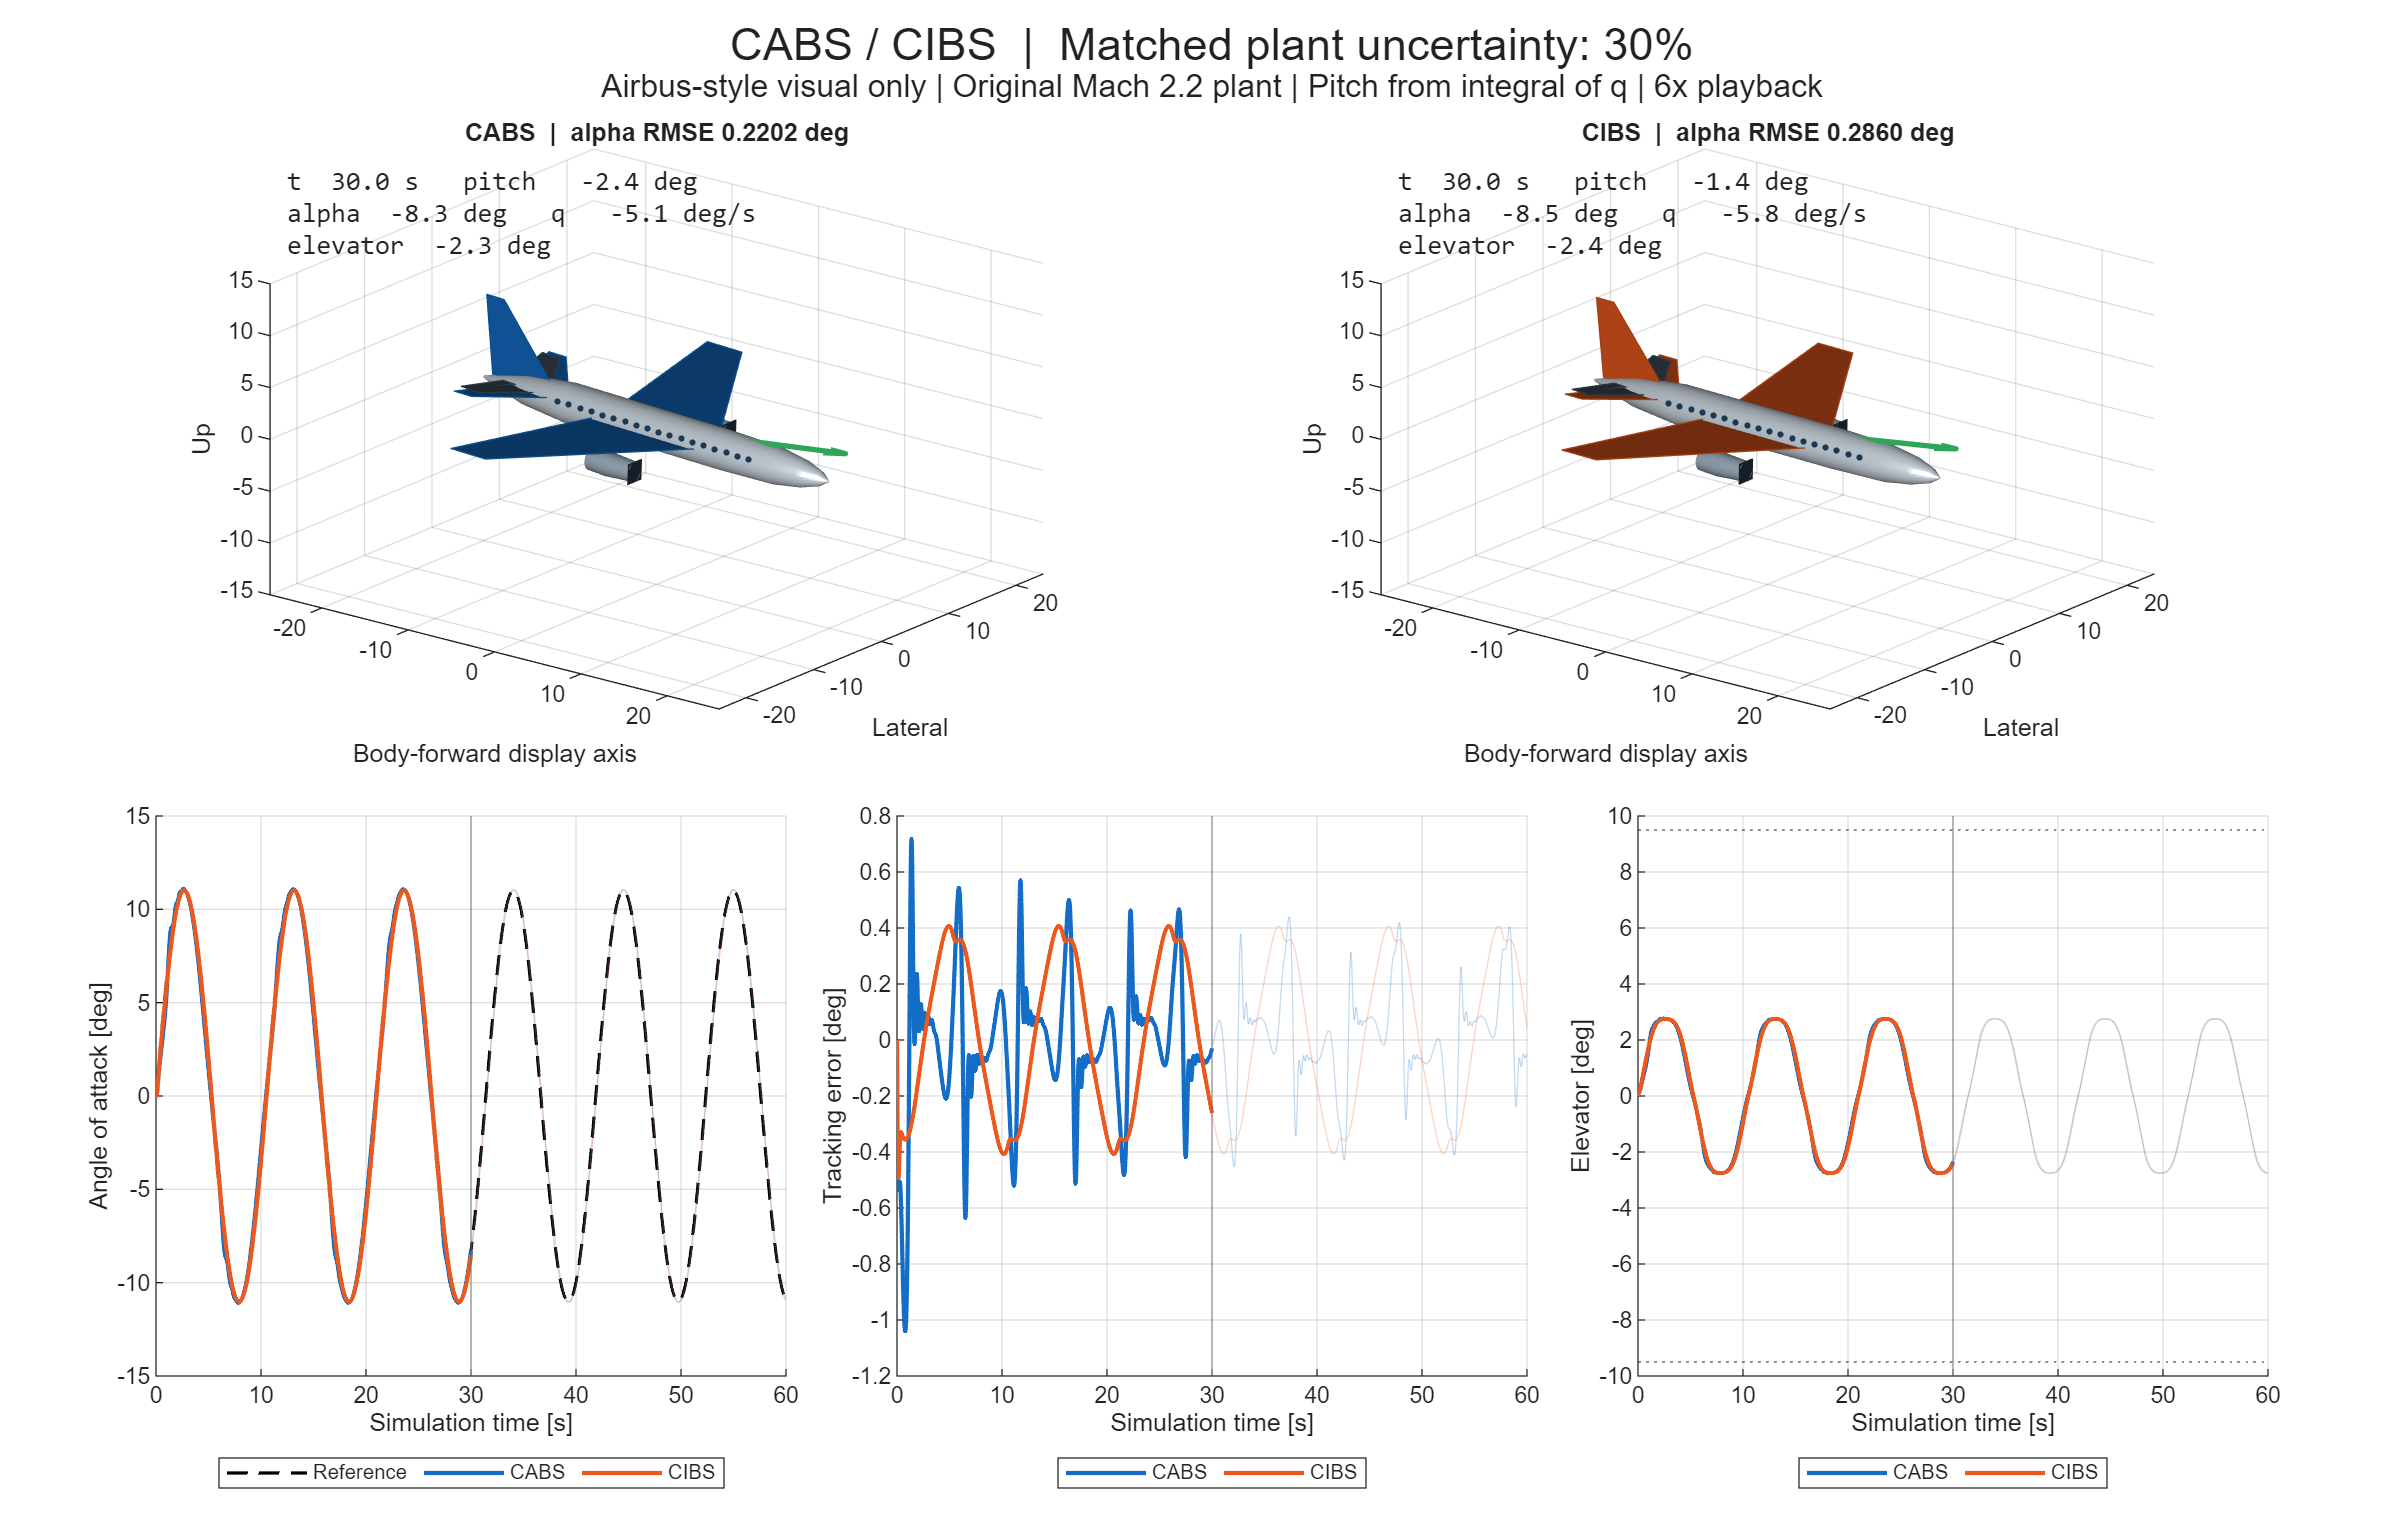
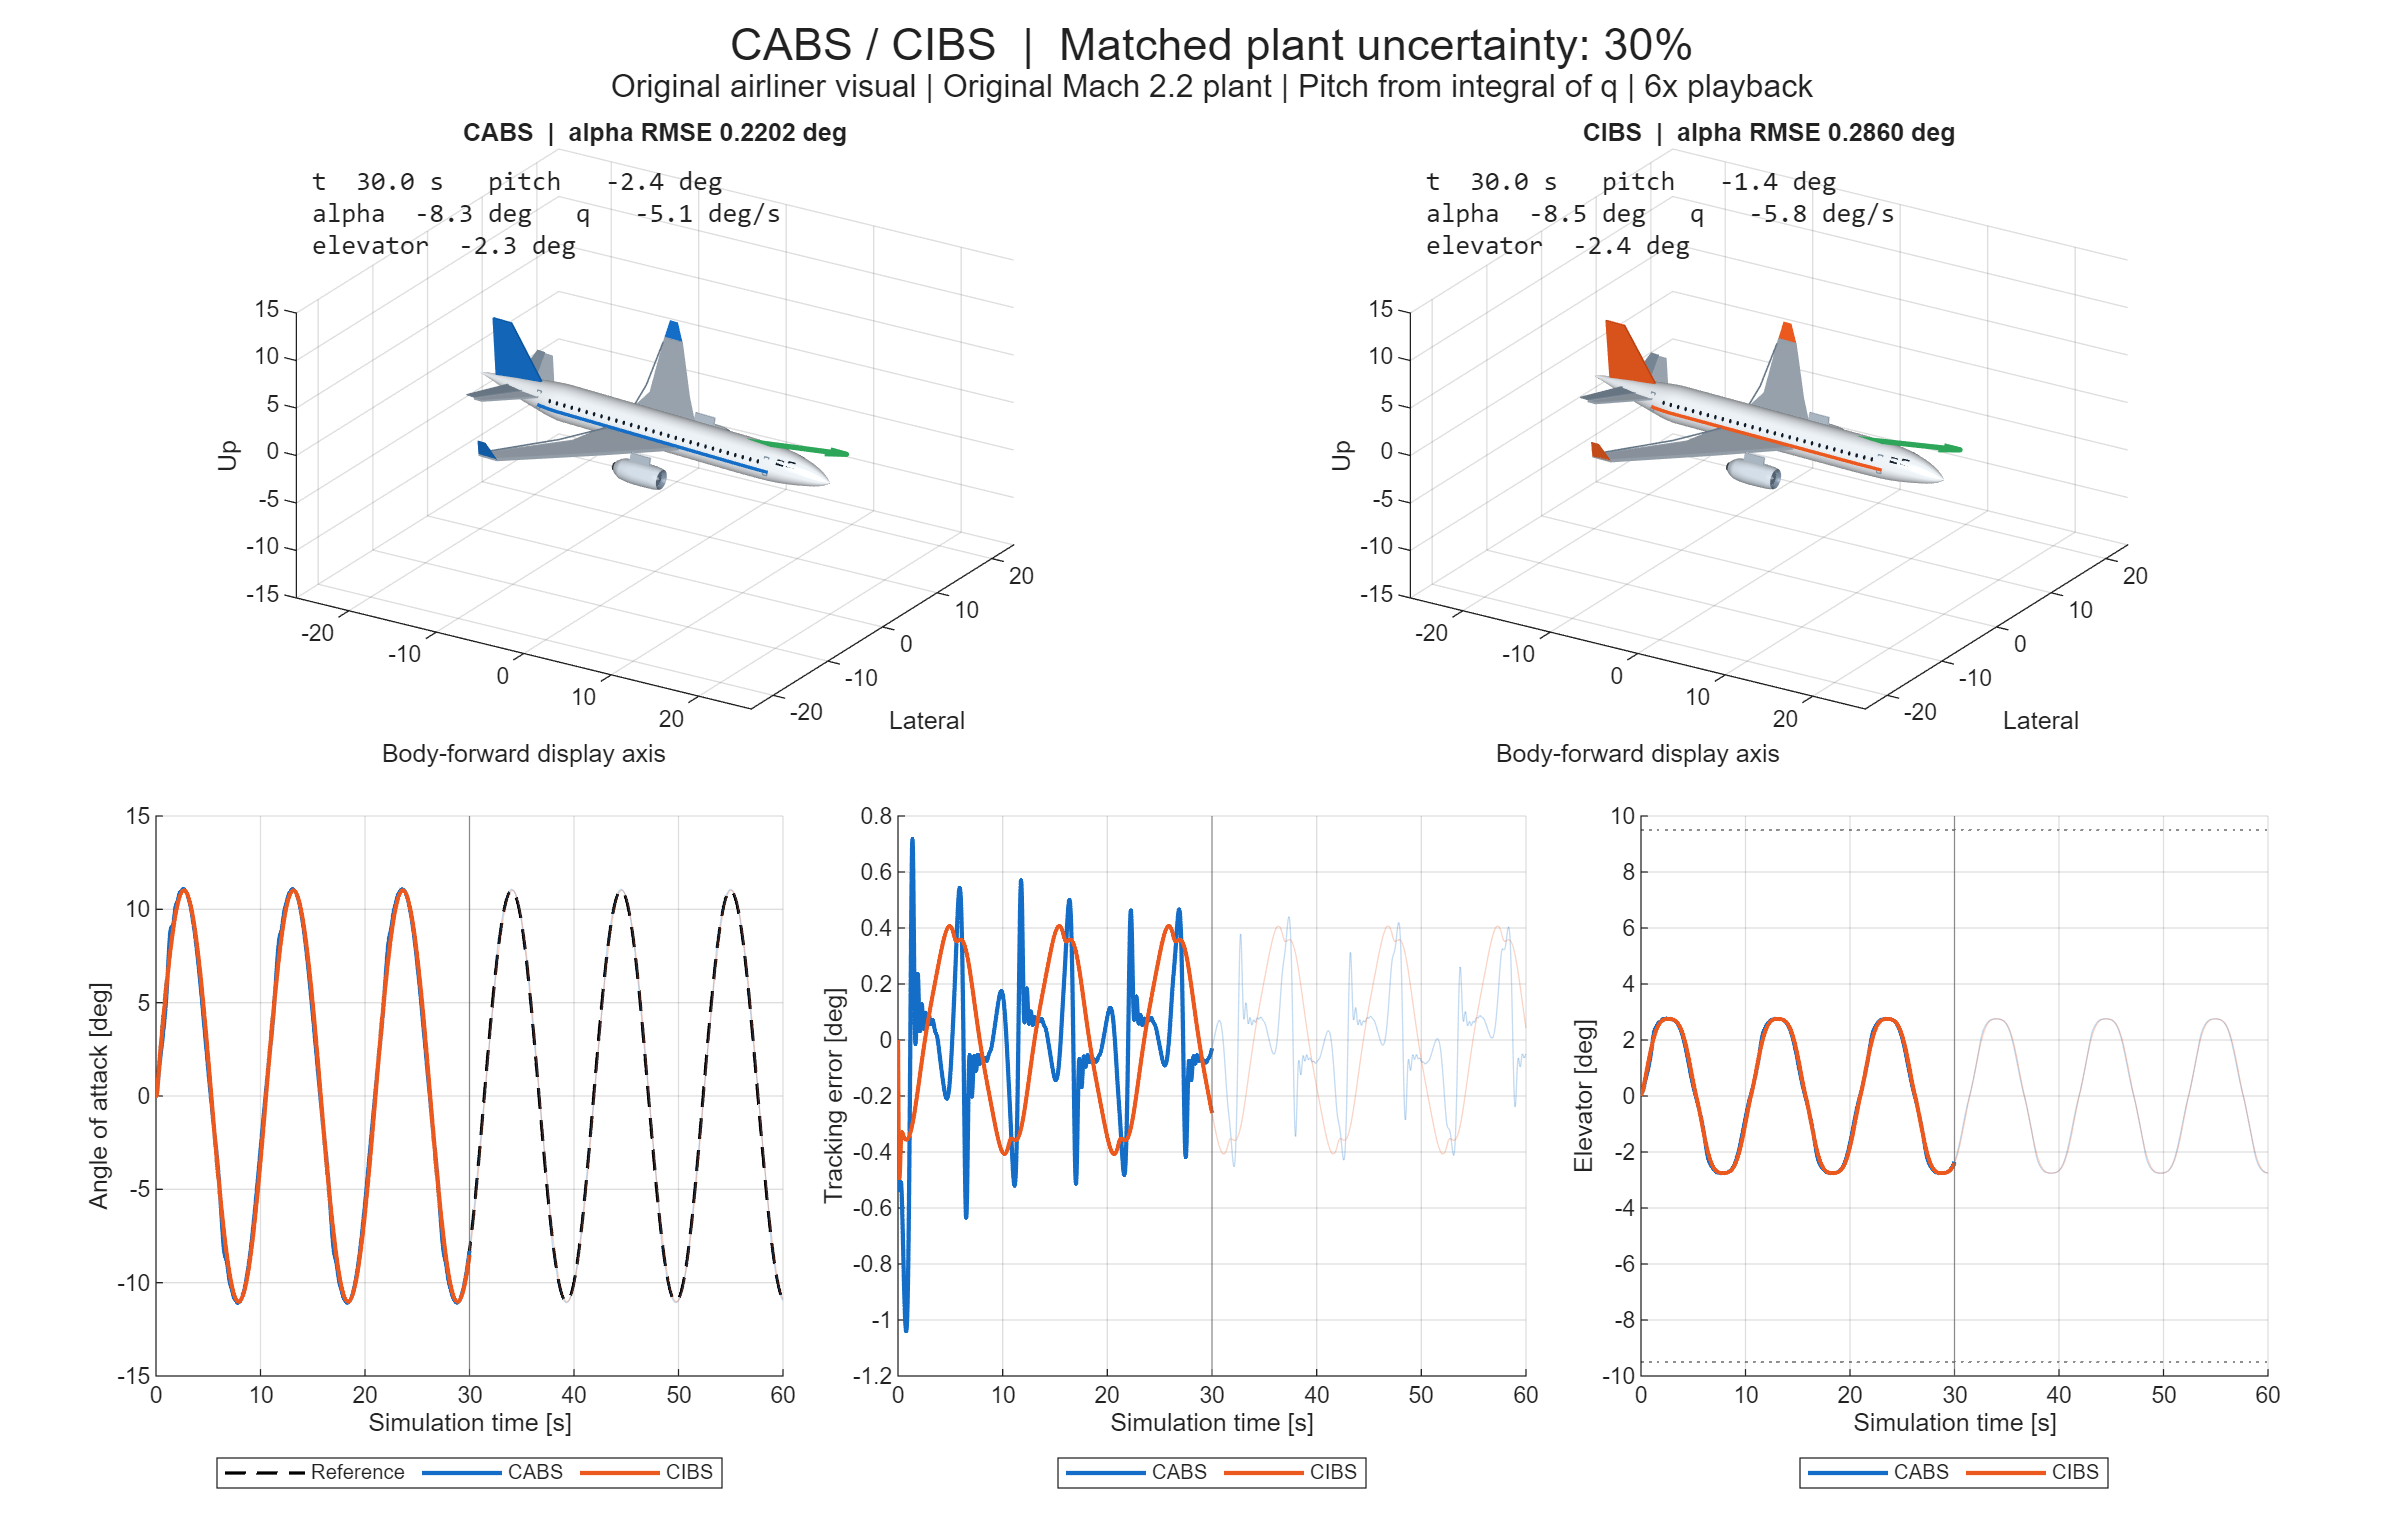
Polish original airliner geometry and refresh controller animation

diff --git a/airliner_mesh.m b/airliner_mesh.m
@@ -1,0 +1,101 @@
+function elevator = airliner_mesh(parent,color)
+%AIRLINER_MESH Original generic narrow-body airliner for MATLAB graphics.
+% No imported mesh, manufacturer drawings, logos, or airline liveries.
+% x forward, y lateral, z upward. Dimensions are visual proportions only.
+x = linspace(-20,20,150);
+stations = [-20 -19 -17 -14 -10 9 13 15 17 18.5 19.5 20];
+radii = [0.03 0.25 0.7 1.3 1.85 1.85 1.8 1.65 1.3 0.88 0.42 0.03];
+r = interp1(stations,radii,x,'pchip');
+zc = interp1(stations,[0.65 0.6 0.45 0.2 0 0 0 0 -0.06 -0.18 -0.3 -0.35],x,'pchip');
+shell(parent,x,r,zc,0,[0.93 0.95 0.97]);
+wingColor = [0.72 0.77 0.82]; dark = [0.055 0.10 0.15];
+for side = [-1 1]
+    % Tapered wings with thickness, sweep, dihedral, and small winglets.
+    foil(parent,[4 side*1.5 -0.45; -1 side*8 0; -7.5 side*17 0.9; ...
+        -9.6 side*17 0.9; -5 side*7 -0.1; -4.5 side*1.5 -0.45],0.17,wingColor);
+    foil(parent,[-7.5 side*17 0.9; -8.5 side*17.6 2.6; ...
+        -9.4 side*17.6 2.6; -9.6 side*17 0.9],0.05,color);
+    line([-4.2 -6.0 -9.1],side*[2 8 16],[-0.24 0.17 1.01], ...
+        'Parent',parent,'Color',[0.40 0.47 0.53],'LineWidth',0.6);
+    % Fixed tailplane; the separate rear section animates with the elevator.
+    foil(parent,[-12 side*0.8 0.5; -15.8 side*6.5 1.1; ...
+        -16.7 side*6.5 1.1; -14.4 side*0.8 0.5],0.10,wingColor);
+    % Engine pylon and rounded nacelle with a recessed fan and exhaust.
+    foil(parent,[3.2 side*5.9 -0.1; 1.0 side*5.9 -0.1; ...
+        0.7 side*5.9 -2.0; 3.0 side*5.9 -2.0],0.12,wingColor);
+    ex = linspace(-0.6,4.5,50);
+    er = interp1([-0.6 0.2 1.8 3.8 4.5],[0.65 1.05 1.18 1.12 1.0],ex,'pchip');
+    shell(parent,ex,er,-2.05*ones(size(ex)),side*5.9,[0.83 0.87 0.91]);
+    shell(parent,[4.5 4.35 4.05],[1 .89 .82],[-2.05 -2.05 -2.05],side*5.9,[0.48 0.55 0.62]);
+    disk(parent,4.02,side*5.9,-2.05,0.82,dark);
+    for blade = linspace(0,2*pi,19)
+        line([4.06 4.06],side*5.9+[0.22*cos(blade) .78*cos(blade+0.15)], ...
+            -2.05+[0.22*sin(blade) .78*sin(blade+0.15)], ...
+            'Parent',parent,'Color',[0.32 0.38 0.44],'LineWidth',0.65);
+    end
+    shell(parent,[4.07 4.30],[0.23 0.02],[-2.05 -2.05],side*5.9,[0.56 0.61 0.66]);
+    shell(parent,[-0.9 -0.55],[0.4 .62],[-2.05 -2.05],side*5.9,[0.27 0.31 0.35]);
+    disk(parent,-0.92,side*5.9,-2.05,0.39,dark);
+    % Rounded cabin windows fitted to the fuselage surface.
+    for wx = -11:0.85:13
+        ang = linspace(0,2*pi,16).';
+        vx = wx+0.14*cos(ang); vz = 0.62+0.21*sin(ang);
+        rr = interp1(stations,radii,vx,'pchip'); zz = interp1(x,zc,vx,'pchip');
+        vy = side*(sqrt(max(0,rr.^2-(vz-zz).^2))+0.018);
+        panel(parent,[vx vy vz],dark);
+    end
+    % Cockpit panes follow the tapered nose surface.
+    for cx = [15.1 16.2]
+        vx = [cx-.4; cx+.4; cx+.35; cx-.35]; vz = [0.72;0.68;1.14;1.20];
+        rr = interp1(stations,radii,vx,'pchip'); zz = interp1(x,zc,vx,'pchip');
+        vy = side*(sqrt(max(0,rr.^2-(vz-zz).^2))+0.025);
+        panel(parent,[vx vy vz],dark);
+    end
+    % Door outlines and a simple original accent strip.
+    for dx = [-12.5 13.6]
+        vz = [-.65 -.65 1.15 1.15 -.65]; vx = dx+[-.23 .23 .23 -.23 -.23];
+        rr = interp1(stations,radii,vx,'pchip'); zz = interp1(x,zc,vx,'pchip');
+        vy = side*(sqrt(max(0,rr.^2-(vz-zz).^2))+0.025);
+        line(vx,vy,vz,'Parent',parent,'Color',[0.5 0.57 0.63],'LineWidth',0.5);
+    end
+    sx = linspace(-12.5,14,100); sr = interp1(stations,radii,sx,'pchip');
+    sz = interp1(x,zc,sx,'pchip');
+    line(sx,side*sqrt(sr.^2-(-0.2-sz).^2)*1.005,-0.2*ones(size(sx)), ...
+        'Parent',parent,'Color',color,'LineWidth',1.3);
+end
+foil(parent,[-12.7 0 1.1; -16.7 0 6.8; -18.8 0 6.8; -18.2 0 0.9],0.13,color);
+elevator = hgtransform('Parent',parent);
+% animate_airbus_controllers sets this transform's hinge to [-13 0 0.5].
+for side = [-1 1]
+    foil(elevator,[-1.4 side*0.8 0; -3.7 side*6.5 0.6; ...
+        -4.6 side*6.5 0.6; -3.4 side*0.8 0],0.06,[0.55 0.62 0.69]);
+end
+end
+
+function panel(parent,vertices,color)
+patch('Parent',parent,'Vertices',vertices,'Faces',1:size(vertices,1), ...
+    'FaceColor',color,'EdgeColor','none','FaceLighting','gouraud', ...
+    'AmbientStrength',0.5,'DiffuseStrength',0.7,'SpecularStrength',0.18);
+end
+
+function shell(parent,x,r,z,y,color)
+a = linspace(0,2*pi,64).';
+surf(repmat(x,numel(a),1),y+cos(a)*r,z+sin(a)*r,'Parent',parent, ...
+    'FaceColor',color,'EdgeColor','none','FaceLighting','gouraud', ...
+    'AmbientStrength',0.45,'DiffuseStrength',0.65,'SpecularStrength',0.25);
+end
+
+function disk(parent,x,y,z,r,color)
+a = linspace(0,2*pi,48).';
+panel(parent,[x*ones(size(a)), y+r*cos(a), z+r*sin(a)],color);
+end
+
+function foil(parent,v,thickness,color)
+% Closed thin solid; fins/pylons extrude laterally, wings vertically.
+if max(v(:,2))-min(v(:,2))<0.01, offset = [0 thickness 0]; else, offset = [0 0 thickness]; end
+panel(parent,v+offset,color); panel(parent,flipud(v-offset),color*0.92);
+for k=1:size(v,1)
+    q = mod(k,size(v,1))+1;
+    panel(parent,[v(k,:)+offset;v(q,:)+offset;v(q,:)-offset;v(k,:)-offset],color*0.8);
+end
+end

diff --git a/animate_airbus_controllers.m b/animate_airbus_controllers.m
@@ -3,7 +3,7 @@ function D = animate_airbus_controllers(options)
 %   D = animate_airbus_controllers() runs the full 60 s experiment.
 %   D = animate_airbus_controllers(Visible='off',Fps=12,Speed=6)
 %   uses the same physics with faster playback. No external mesh/toolbox needed.
-%   The procedural airliner is illustrative, not an Airbus dynamics model.
+%   Original generic airliner geometry; no third-party aircraft assets.
 %   Pitch = integral(q dt); flight-path angle = pitch - alpha. Translation
 %   is omitted because the source plant has no position/altitude states.
 arguments
@@ -48,12 +48,12 @@ f = figure('Color','w','Position',[50 50 1200 760], ...
 cleanup = onCleanup(@() close(f));
 tl = tiledlayout(f,2,6,'TileSpacing','compact','Padding','compact');
 title(tl,sprintf('CABS / CIBS  |  Matched plant uncertainty: %.0f%%',100*options.Uncertainty),'FontSize',17);
-subtitle(tl,sprintf('Airbus-style visual only | Original Mach 2.2 plant | Pitch from integral of q | %.0fx playback',options.Speed));
+subtitle(tl,sprintf('Original airliner visual | Original Mach 2.2 plant | Pitch from integral of q | %.0fx playback',options.Speed));
 for j = 1:2
     ax = nexttile(tl,(j-1)*3+1,[1 3]);
     hold(ax,'on'); axis(ax,'equal');
     xlim(ax,[-26 26]); ylim(ax,[-24 24]); zlim(ax,[-15 15]);
-    view(ax,38,19); grid(ax,'on');
+    view(ax,32,23); grid(ax,'on');
     xlabel(ax,'Body-forward display axis'); ylabel(ax,'Lateral'); zlabel(ax,'Up');
     title(ax,sprintf('%s  |  alpha RMSE %.4f deg',names{j},AlphaRMSE_deg(j)));
     body(j) = hgtransform('Parent',ax); %#ok<AGROW>
@@ -123,39 +123,4 @@ info = imfinfo(gifPath);
 assert(numel(info)==numel(indices),'GIF frame count mismatch.');
 fprintf('Saved %d frames: %s\n',numel(info),gifPath);
 disp(D.metrics);
-end
-
-function elevator = airliner_mesh(parent,color)
-% Original procedural geometry: x forward, y lateral, z upward. Units are
-% visual proportions, not certified Airbus dimensions or aerodynamic data.
-x = [-20 -18 -15 -10 8 14 17 19 20];
-r = [0.1 0.7 1.4 1.9 1.9 1.75 1.3 0.7 0.05];
-a = linspace(0,2*pi,28).';
-surf(repmat(x,numel(a),1),cos(a)*r,sin(a)*r,'Parent',parent, ...
-    'FaceColor',[0.88 0.92 0.96],'EdgeColor','none');
-% Swept wings and tailplane.
-for side = [-1 1]
-    panel(parent,[6 side*1.4 0; -5 side*19 1; -9 side*19 1; -6 side*1.4 0],color);
-    panel(parent,[-11 side*1 0.5; -16 side*7 1; -18 side*7 1; -16 side*1 0.5],color);
-    % Underwing turbofan nacelle, axis aligned with the fuselage.
-    ex = [-2 0 3]; er = [1.05 1.15 0.95];
-    surf(repmat(ex,numel(a),1),side*7+cos(a)*er,-1.5+sin(a)*er, ...
-        'Parent',parent,'FaceColor',[0.68 0.75 0.82],'EdgeColor','none');
-    panel(parent,[3 side*7-0.95 -2.45; 3 side*7+0.95 -2.45; ...
-        3 side*7+0.95 -0.55; 3 side*7-0.95 -0.55],[0.13 0.18 0.23]);
-    % Passenger windows.
-    wx = -10:1.3:13;
-    line(wx,side*1.88*ones(size(wx)),0.65*ones(size(wx)), ...
-        'Parent',parent,'LineStyle','none','Marker','.','MarkerSize',7,'Color',[0.1 0.22 0.32]);
-end
-panel(parent,[-12 0 1; -18 0 8; -20 0 8; -19 0 0.5],color);
-elevator = hgtransform('Parent',parent);
-for side = [-1 1]
-    panel(elevator,[0 side*1 0; -3 side*6 0.5; -5 side*6 0.5; -4 side*1 0],[0.26 0.32 0.39]);
-end
-end
-
-function panel(parent,vertices,color)
-patch('Parent',parent,'Vertices',vertices,'Faces',1:size(vertices,1), ...
-    'FaceColor',color,'EdgeColor',color*0.7,'FaceLighting','gouraud');
 end

diff --git a/README.md b/README.md
@@ -4,11 +4,11 @@ MATLAB and Simulink experiments comparing command-filtered adaptive backstepping
 
 ## Controller responses in 3D
 
-![CABS and CIBS simulated responses on procedural Airbus-style airliners](docs/media/controller_comparison.gif)
+![CABS and CIBS simulated responses on polished original airliner visuals](docs/media/controller_comparison.gif)
 
 The GIF shows freshly simulated responses over **60 seconds**, played at **6x speed**. Both controllers use the same physical plant with **30% maximum nonuniform pitch-parameter uncertainty**. CABS starts with nominal parameter estimates and adapts; CIBS retains nominal control effectiveness and uses measured pitch acceleration.
 
-The airliner is an original procedural **Airbus-style illustration**, not an Airbus aerodynamic model or an official Airbus asset. The underlying project plant runs at **Mach 2.2**. It contains angle of attack and pitch rate, with no roll, yaw, position, or altitude dynamics. Displayed pitch is reconstructed as `cumtrapz(t,q)` with zero initial pitch; the green velocity-direction arrow uses `gamma = pitch - alpha`. The airframes remain at the display origin. Elevator motion follows the applied command without visual amplification.
+The airliner is **original procedural geometry** with a generic modern narrow-body silhouette: a smooth fuselage, swept wings and winglets, twin turbofan nacelles, cockpit glazing, and cabin windows. No third-party aircraft mesh, manufacturer drawings, logos, or airline liveries are included. It is not an official Airbus or Boeing asset. The underlying project plant runs at **Mach 2.2**. It contains angle of attack and pitch rate, with no roll, yaw, position, or altitude dynamics. Displayed pitch is reconstructed as `cumtrapz(t,q)` with zero initial pitch; the green velocity-direction arrow uses `gamma = pitch - alpha`. The airframes remain at the display origin. Elevator motion follows the applied command without visual amplification.
 
 The lower plots show angle-of-attack tracking, tracking error, and elevator deflection. Faint curves show the complete response; solid curves progress with the animation. [Static preview](docs/media/controller_comparison.png) · [Numeric metrics](docs/media/controller_metrics.csv).
 
@@ -99,7 +99,8 @@ Both controllers share backstepping gains `c1 = 4`, `c2 = 8`, a second-order com
 | `controller_cabs.m` | Model-based control and parameter adaptation |
 | `controller_cibs.m` | Incremental control law |
 | `simulate_controller.m` | Shared simulation, logging, and metrics |
-| `animate_airbus_controllers.m` | Matched simulation, procedural mesh, animation, GIF export |
+| `animate_airbus_controllers.m` | Matched simulation, animation, GIF export |
+| `airliner_mesh.m` | Original procedural airliner geometry; no effect on simulation dynamics |
 | `run_project.m` | Original experiment entry point |
 | `compare_CABS_CIBS_matched_uncertainty.m` | Direct matched-plant comparison |
 | `plot_dashboard.m`, `plot_report_figures.m` | Response dashboards and report figures |
